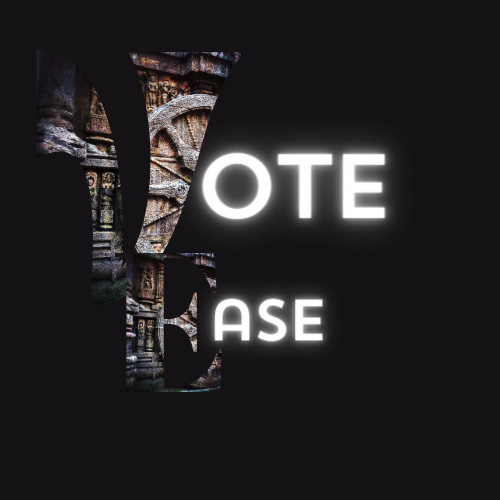
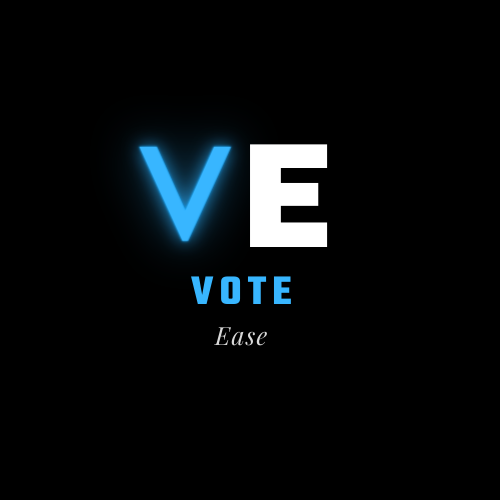
finally

Changed region(s): [[0.06, 0.09, 0.84, 0.81]]

diff --git a/WebPages/loading_page/loading_page.js b/WebPages/loading_page/loading_page.js
@@ -9,11 +9,10 @@ document.addEventListener("DOMContentLoaded", function() {
     setTimeout(function() {
         // Show the logo container
         document.querySelector('.logo-container').classList.add('active');
-    }, 30000); // 30000 milliseconds (30 seconds)
+    }, 10000); // 30000 milliseconds (30 seconds)
 
     // Logo click event to navigate to another webpage
-    document.querySelector('.logo').addEventListener('click', function() {
-        // Replace 'destination.html' with the actual destination page
+    document.querySelector('.logo').addEventListener('click', function(){
         window.location.href = 'index.html';
     });
 });

diff --git a/WebPages/loading_page/loading_page.css b/WebPages/loading_page/loading_page.css
@@ -51,6 +51,10 @@ body, html {
 }
 
 .logo-container {
+    width: 100%;
+    height: auto;
+    max-width: 1600px;
+    max-height: 100%; 
     position: absolute;
     bottom: -50%;
     left: 50%;
@@ -62,7 +66,7 @@ body, html {
 .logo {
     width: 100%; /* Logo covers the full width of the screen */
     height: auto;
-    max-width: 600px; /* Set a maximum width for the logo if needed */
+    max-width: 1600px; /* Set a maximum width for the logo if needed */
     max-height: 100%; /* Maintain aspect ratio */
     cursor : pointer;
 }
